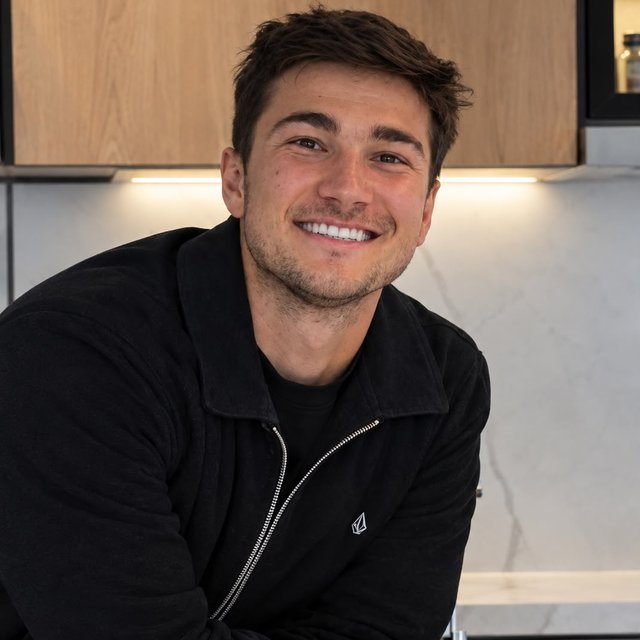
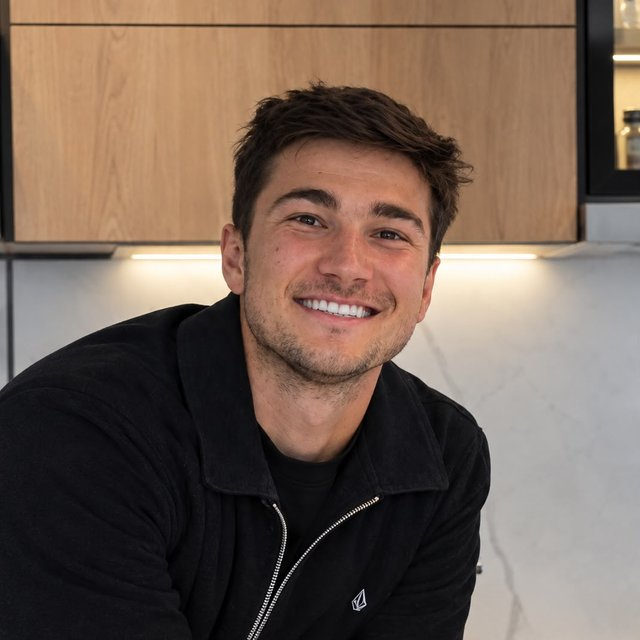
Centrar caras del equipo y subir opacidad del tinte verde
Se recortan las 6 fotos usando detección de rostro para que la cara
quede centrada en el círculo, y se sube la opacidad del velo verde
de 0.12 a 0.35 para que se note.

Claude-Session: https://claude.ai/code/session_014nfDeAtm9U1EHk1yDQahG2

diff --git a/css/style.css b/css/style.css
@@ -391,7 +391,7 @@ h1 { font-weight: 400; }
   position: absolute;
   inset: 0;
   background: var(--green);
-  opacity: 0.12;
+  opacity: 0.35;
   pointer-events: none;
 }
 
